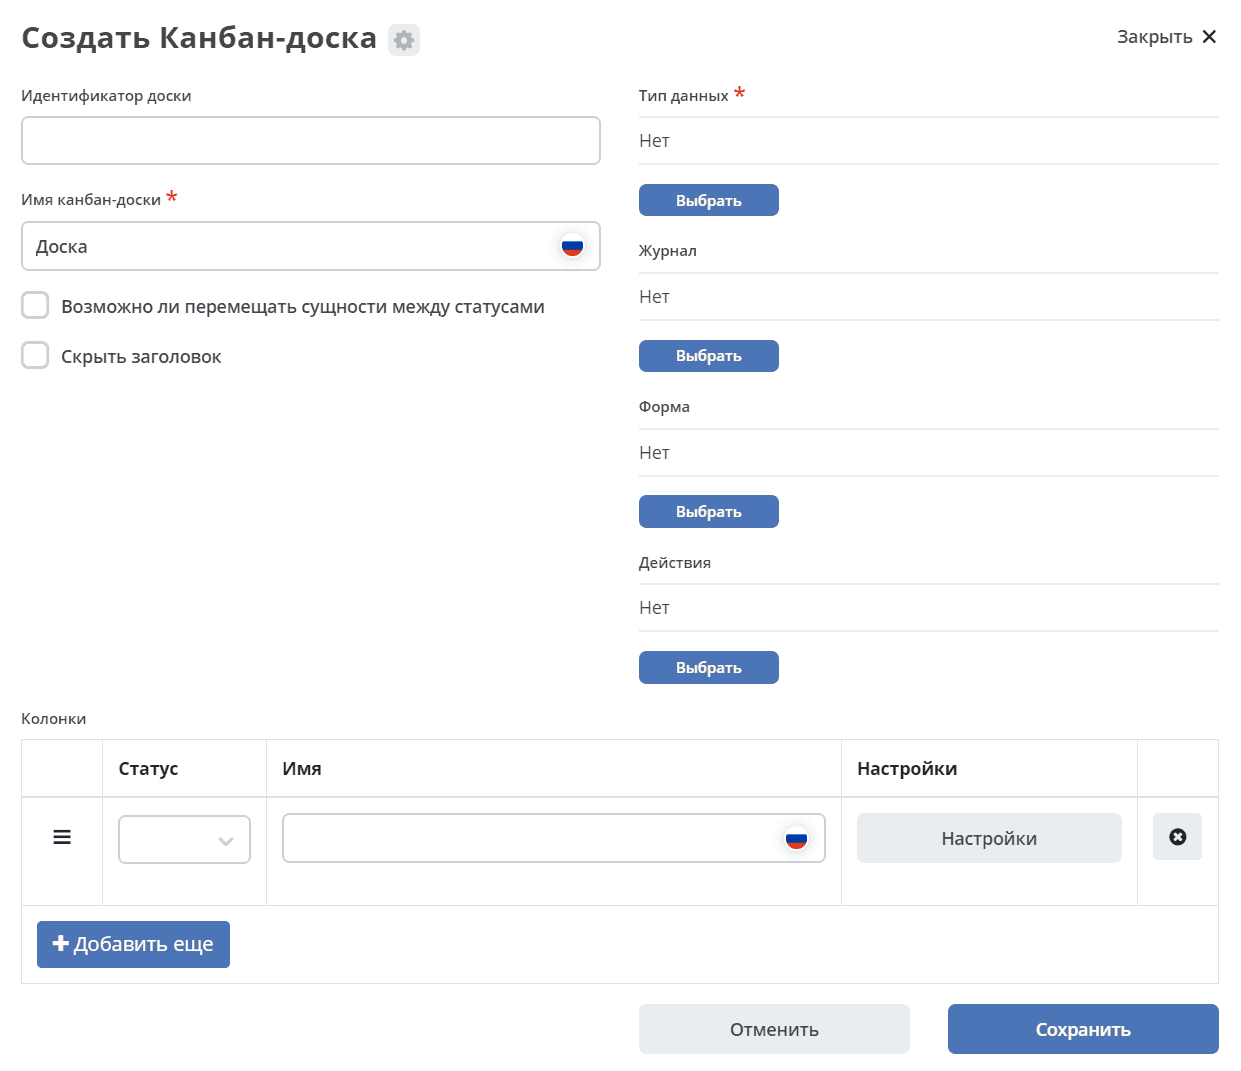
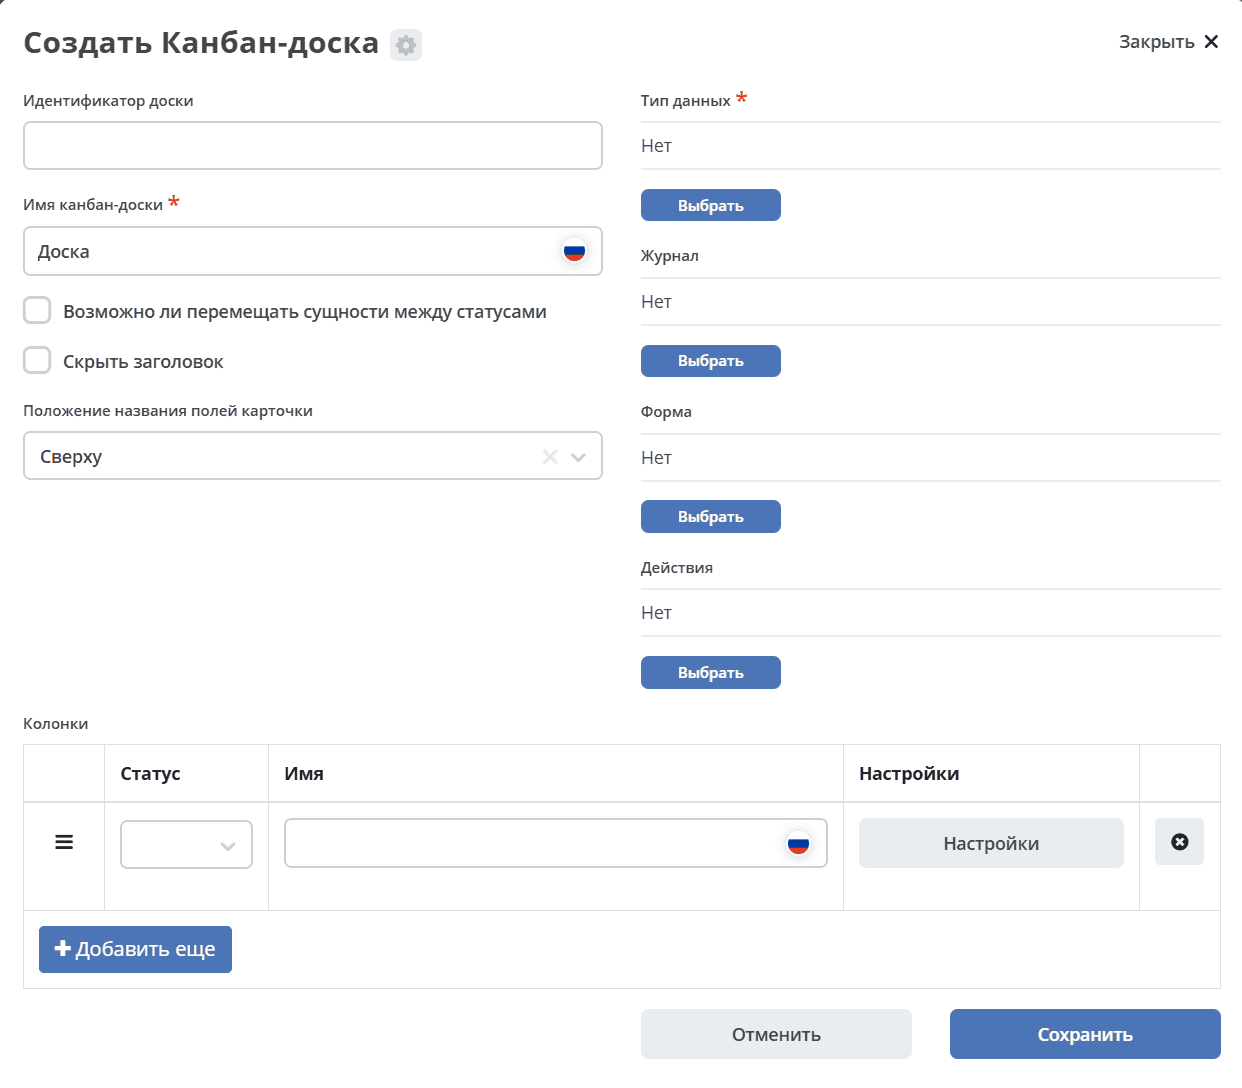
Kanban, doclib minor updates

diff --git a/docs/settings_kb/interface/journals/kanban_board.rst b/docs/settings_kb/interface/journals/kanban_board.rst
@@ -148,6 +148,9 @@
       * - **Скрыть заголовок**
         - | Возможность убирать заголовок канбан карточки
         - 5
+      * - **Положение названия полей карточки**
+        - | Возможность выбрать расположение названий полей карточки: слева или сверху.
+        - 
       * - **Тип данных**
         - | Тип сущности, который необходимо отражать на доске. Выбор осуществляется из списка всех уже созданных типов. 
           | Может быть выбрано только 1 значение. 
@@ -172,11 +175,31 @@
         - Конфигурация колонок
         - 3
 
-Соответствие полей конфигурации и UI:
+Соответствие полей конфигурации и интерфейса:
 
  .. image:: _static/kanban/KB5.png
        :width: 700
        :align: center
+
+Возможное положение названия полей карточки:
+
+.. list-table::
+      :widths: 20 20
+      :align: center
+
+      * - **Сверху**
+        - **Слева**
+      * - |
+
+            .. image:: _static/kanban/card_up.png
+                  :width: 200
+                  :align: center
+
+        - |
+
+            .. image:: _static/kanban/card_left.png
+                  :width: 200
+                  :align: center
 
 Настройка колонок
 ~~~~~~~~~~~~~~~~~~~~~~~~~

diff --git a/docs/settings_kb/interface/journals/document_library.rst b/docs/settings_kb/interface/journals/document_library.rst
@@ -128,7 +128,7 @@
           | :ref:`Подробно о версиях<widget_versions_journal>`
 
 Создание папки / Загрузка файла
-~~~~~~~~~~~~~~~~~~~~~~~~~~~~~~~~~~~~
+~~~~~~~~~~~~~~~~~~~~~~~~~~~~~~~~~~
 
 **1. C использованием кнопки:**
 
@@ -207,6 +207,16 @@
             .. image:: _static/doclib/validation_name_02.png
                   :width: 300
                   :align: center
+
+Так же доступна загрузка папки, содержащей файлы.
+
+Перемещение файлов и папок
+~~~~~~~~~~~~~~~~~~~~~~~~~~~~~~~~~~
+
+ .. image:: _static/doclib/move_file.png
+       :width: 600
+       :align: center
+
 
 Карточка файла
 ----------------

diff --git a/docs/releases/community.rst b/docs/releases/community.rst
@@ -1,5 +1,5 @@
-2024.10 [planned]
-===================
+2024.10
+=========
 
 .. important::
 
@@ -22,6 +22,8 @@
 5. В модуле :ref:`Договоры<ecos-contract>` добавлено использование :ref:`DMN решения<dmn_decision>` для выбора этапа согласования и согласующих.
 
 6. В :ref:`библиотеке документов<document_library>` стало доступно добавление файлов и папок перетаскиванием.
+
+7. На :ref:`канбан-доске<kanban_board>` добавлен выбор расположения названий полей карточки: слева или сверху.
 
 
 **Доступно в Enterprise:**
